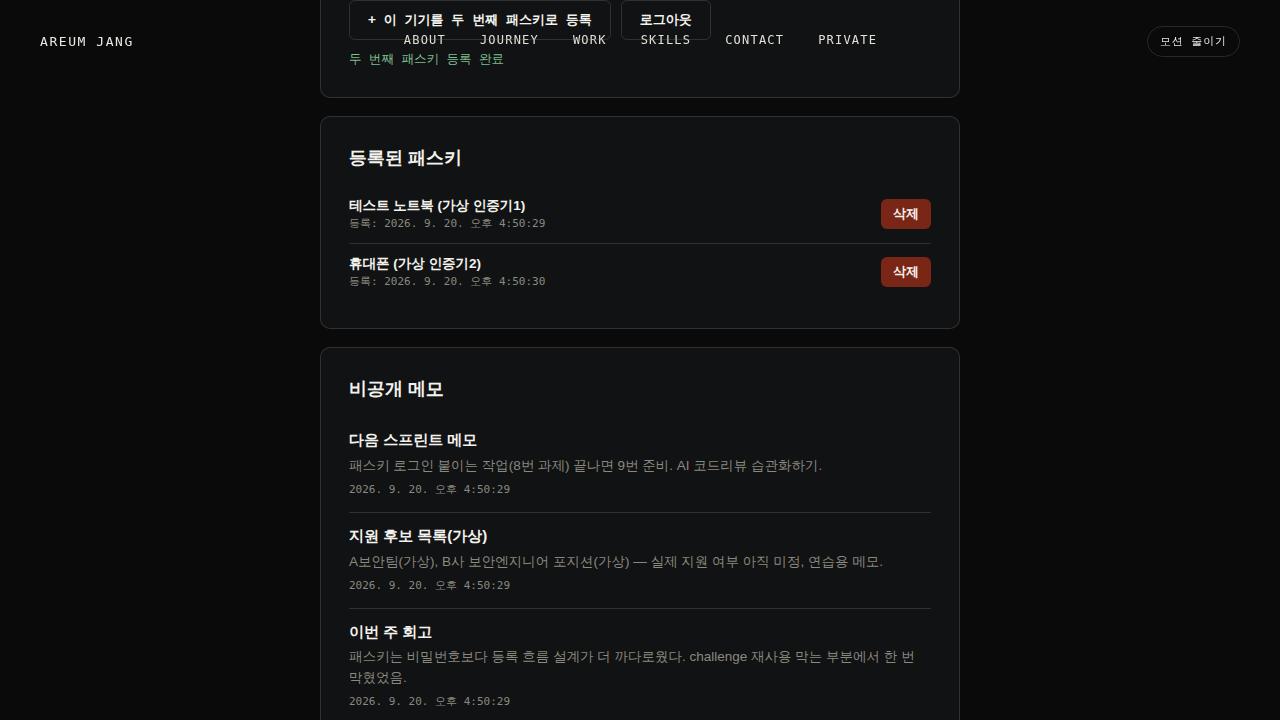
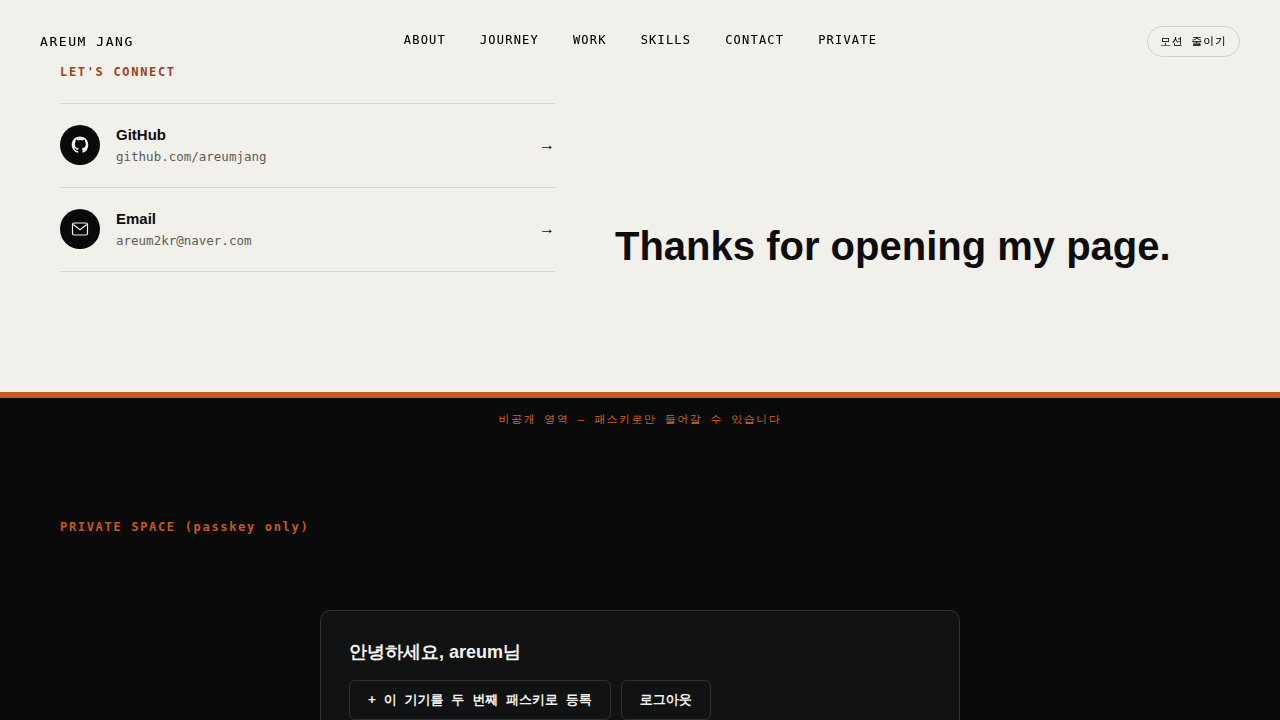
수정

diff --git a/README.md b/README.md
@@ -46,43 +46,69 @@ PostgreSQL 대신 SQLite를 쓴 것도 같은 이유입니다(`pg` 설치 불가
 
 ### ④ 안 열리는 것을 확인한 기록
 
-전체 원본 로그는 `evidence/evidence-log.json`에 있습니다. 네 가지 확인 각각 성공/실패 요청을 나란히 남겼습니다.
+전체 원본 로그는 `evidence/evidence-log.json`에 있습니다. 네 가지 확인 각각 성공/실패(또는 거절) 요청을 나란히 남겼습니다.
 
 **1) 로그인 없이 열기**
 ```
-GET /api/private/items (쿠키 없음) -> 401 {"error":"로그인이 필요합니다 (패스키로 인증되지 않음)"}
-GET /api/passkeys       (쿠키 없음) -> 401 (동일)
-GET /  (쿠키 없음) -> 200, 그러나 페이지 소스에 비공개 문구("다음 스프린트 메모" 등) 없음 확인
+[거절] GET /api/private/items (쿠키 없음) -> 401 {"error":"로그인이 필요합니다 (패스키로 인증되지 않음)"}
+[거절] GET /api/passkeys       (쿠키 없음) -> 401 (동일)
+       GET /  (쿠키 없음) -> 200, 그러나 페이지 소스에 비공개 문구("다음 스프린트 메모" 등) 없음 확인
+[성공] 같은 패스키로 로그인한 뒤 GET /api/private/items -> 200, 항목 3개 정상 반환 (아래 3번 항목의 로그인 성공 참고)
 ```
 
 **2) 남의 패스키로 열기**
 ```
-guest2 계정으로 로그인 시도하면서, areum 소유의 credential_id로 응답을 위조해 제출
-POST /api/login/finish -> 400 "해당 계정에 속하지 않은 패스키입니다"
+[거절] guest2 로그인 흐름 중, areum 소유의 credential_id로 응답을 위조해 제출
+       POST /api/login/finish -> 400 "해당 계정에 속하지 않은 패스키입니다"
+[성공] (대조군) areum 본인의 credential_id로 진짜 서명까지 만들어 제출 -> 200 (아래 서명 검증 항목)
 
-+ areum 세션으로 guest2의 항목(id=4) 직접 조회
-GET /api/private/items/4 -> 403 "다른 계정의 자료입니다"
-+ guest2 세션으로 areum의 항목(id=1) 직접 조회
-GET /api/private/items/1 -> 403 (동일)
-+ 거절 전후 자료 건수: areum 3->3, guest2 3->3 (변화 없음)
+[거절] areum 세션으로 guest2의 항목(id=4) 직접 조회 -> GET /api/private/items/4 -> 403 "다른 계정의 자료입니다"
+[거절] guest2 세션으로 areum의 항목(id=1) 직접 조회 -> GET /api/private/items/1 -> 403 (동일)
+[성공] (대조군) areum 세션으로 areum 자신의 항목(id=1) 조회 -> GET /api/private/items/1 -> 200
+       거절 전후 자료 건수: areum 3->3, guest2 3->3 (변화 없음)
+```
+
+서명 검증 자체가 진짜로 동작하는지도 별도로 확인했습니다 — 위조된 credential_id(위 항목)는 사실 DB 조회 단계에서 걸러지는 것이라, **서명 검증(`crypto.verify`) 자체**가 살아있는지는 다른 테스트로 증명했습니다: 진짜 기기로 진짜 서명을 만든 뒤, 그 서명 값의 문자 하나만 바꿔서 제출.
+```
+[성공] 진짜 서명 그대로 제출 -> POST /api/login/finish -> 200
+[거절] 같은 서명에서 한 글자만 조작해서 제출 -> POST /api/login/finish -> 401 "서명 검증에 실패했습니다"
 ```
 
 **3) 이미 쓴 질문(challenge) 재사용**
 ```
-로그인 성공: POST /api/login/finish -> 200 {"ok":true,"username":"areum"}
-같은 요청 본문을 그대로 재전송: POST /api/login/finish -> 400 "로그인 요청이 없거나 이미 처리(또는 만료)되었습니다"
+[성공] 로그인 성공: POST /api/login/finish -> 200 {"ok":true,"username":"areum"}
+[거절] 같은 요청 본문을 그대로 재전송: POST /api/login/finish -> 400 "로그인 요청이 없거나 이미 처리(또는 만료)되었습니다"
+```
+등록 쪽 challenge도 매 요청 다른 값이 나오는 것을 별도로 확인했습니다: 서로 다른 아이디로 `register/start`를 두 번 호출 → challenge 값이 서로 다름을 확인.
+
+등록을 취소했을 때(=`/finish`를 끝까지 부르지 않았을 때) 정말 아무것도 안 남는지도 확인했습니다:
+```
+POST /api/register/start {username: "cancelled-user"} 만 호출하고 /finish는 호출하지 않음(=사람이 패스키 창을 취소한 상황)
+그 아이디로 로그인 시도: POST /api/login/start -> 404 "해당 아이디가 없습니다" (계정이 아예 생성되지 않았음)
 ```
 
 **4) 패스키 삭제 뒤 로그인**
 ```
 패스키 "테스트 노트북" 삭제: DELETE /api/passkeys/1 -> 200
 그 패스키가 물려 있던 기기(가상 인증기)를 브라우저에서도 완전히 제거
-로그인 재시도 -> 200 (남은 패스키 "휴대폰"으로 성공)
-삭제된 패스키의 credential_id로 직접 로그인 시도 -> 400 "해당 계정에 속하지 않은 패스키입니다" (더 이상 사용 불가)
-+ 마지막 남은 패스키 삭제 시도 -> 409 "마지막 남은 패스키는 삭제할 수 없습니다" (서버가 의도적으로 막음)
+[성공] 로그인 재시도 -> 200 (남은 패스키 "휴대폰"으로 성공)
+[거절] 삭제된 패스키의 credential_id로 직접 로그인 시도 -> 400 "해당 계정에 속하지 않은 패스키입니다" (더 이상 사용 불가)
+[거절] 마지막 남은 패스키 삭제 시도 -> 409 "마지막 남은 패스키는 삭제할 수 없습니다" (서버가 의도적으로 막음)
 ```
 
-테스트는 실제 물리 보안키 대신 Chrome DevTools Protocol의 **WebAuthn 가상 인증기**(virtual authenticator)로 자동화했습니다 — 실제 ECDSA(P-256) 키 쌍 생성, 진짜 CBOR/서명 검증 경로를 그대로 통과하는 진짜 WebAuthn 세리모니이며, 클릭만 사람 대신 스크립트가 했습니다(`scripts/evidence.mjs`). 위 자동화 증거는 개발 중 localhost에서 수집했고(배포된 것과 완전히 동일한 서버 코드), **실제 배포 주소(onrender.com)에서도** 진짜 기기(지문/PIN)로 계정 생성 → 패스키 등록 → 비공개 메모 확인까지 직접 재현해 [`evidence/live-render-verified.png`](evidence/live-render-verified.png)로 남겼습니다.
+**저장된 값이 정말 "공개키"인지 직접 확인** — DB에서 실제로 credentials 테이블 한 행을 그대로 꺼내봤습니다:
+```json
+{
+  "device_name": "테스트 노트북 (가상 인증기1)",
+  "public_key_jwk": { "kty": "EC", "crv": "P-256",
+    "x": "paKuBz7k3oek2ZkCxphhoE3OBRXJWCY1lmH7BwK9Rhk",
+    "y": "np5rKVuC7Ktp58DyNPYRn2aY_hWA9dvyc5_-_YruQAo" },
+  "sign_count": 1
+}
+```
+`x`, `y`는 타원곡선 공개키의 좌표일 뿐이고, 이 값만으로는 로그인할 수 없습니다(서명은 개인키로만 만들 수 있음). 개인키에 해당하는 `d` 값은 어디에도 없고, 등록 요청 본문(위 ②)에도 개인키 필드가 없습니다 — 등록 과정 내내 개인키가 기기 밖으로 나간 적이 없다는 뜻입니다.
+
+**패스키 저장 위치**: 자동화 테스트는 실제 물리 보안키 대신 Chrome DevTools Protocol의 **WebAuthn 가상 인증기**(virtual authenticator)를 썼습니다 — 실제 ECDSA(P-256) 키 쌍 생성, 진짜 CBOR/서명 검증 경로를 그대로 통과하는 진짜 WebAuthn 세리모니이며, 클릭만 사람 대신 스크립트가 했습니다(`scripts/evidence.mjs`). 이 자동화 증거는 개발 중 localhost에서 수집했고(배포된 것과 완전히 동일한 서버 코드), **실제 배포 주소(onrender.com)에서도** 직접 브라우저로 계정 생성 → 패스키 등록 → 비공개 메모 확인까지 재현했습니다. 이때 등록 화면에서 패스키를 실제로 저장한 곳은 기기 자체(Windows Hello 등)가 아니라 **Chrome의 구글 비밀번호 관리자**(Google Password Manager, 구글 계정에 동기화되는 방식)였고, 그 증거를 [`evidence/live-render-verified.png`](evidence/live-render-verified.png)로 남겼습니다.
 
 ### ⑤ AI와 나
 
